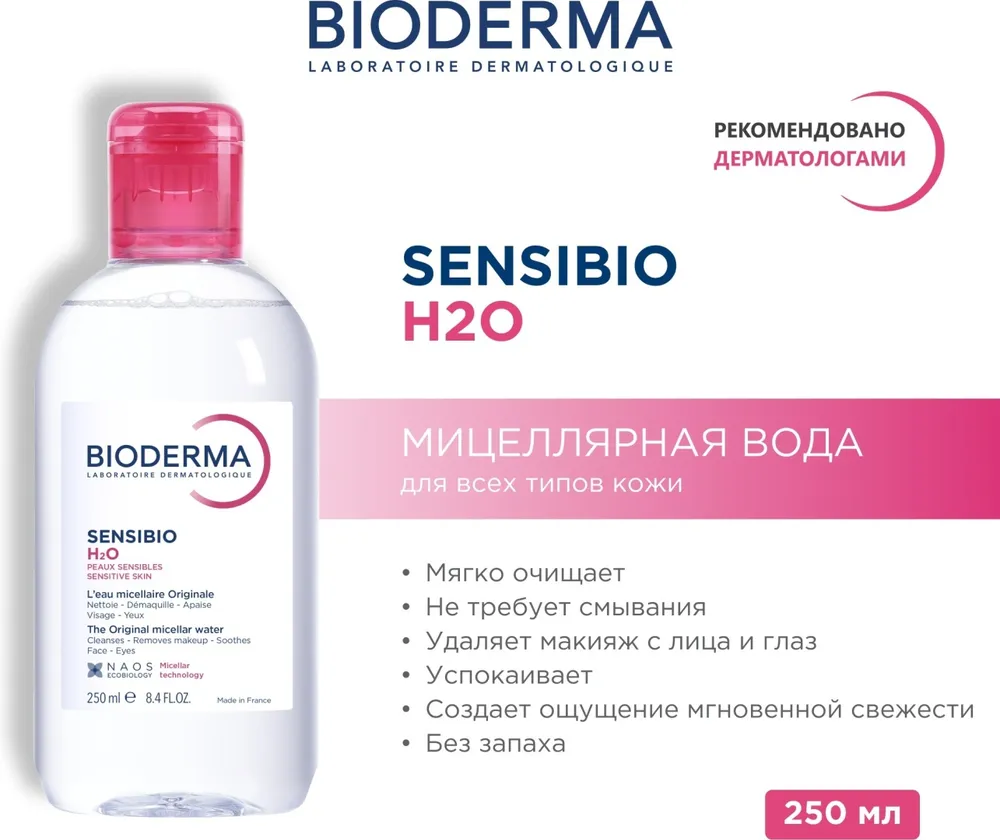
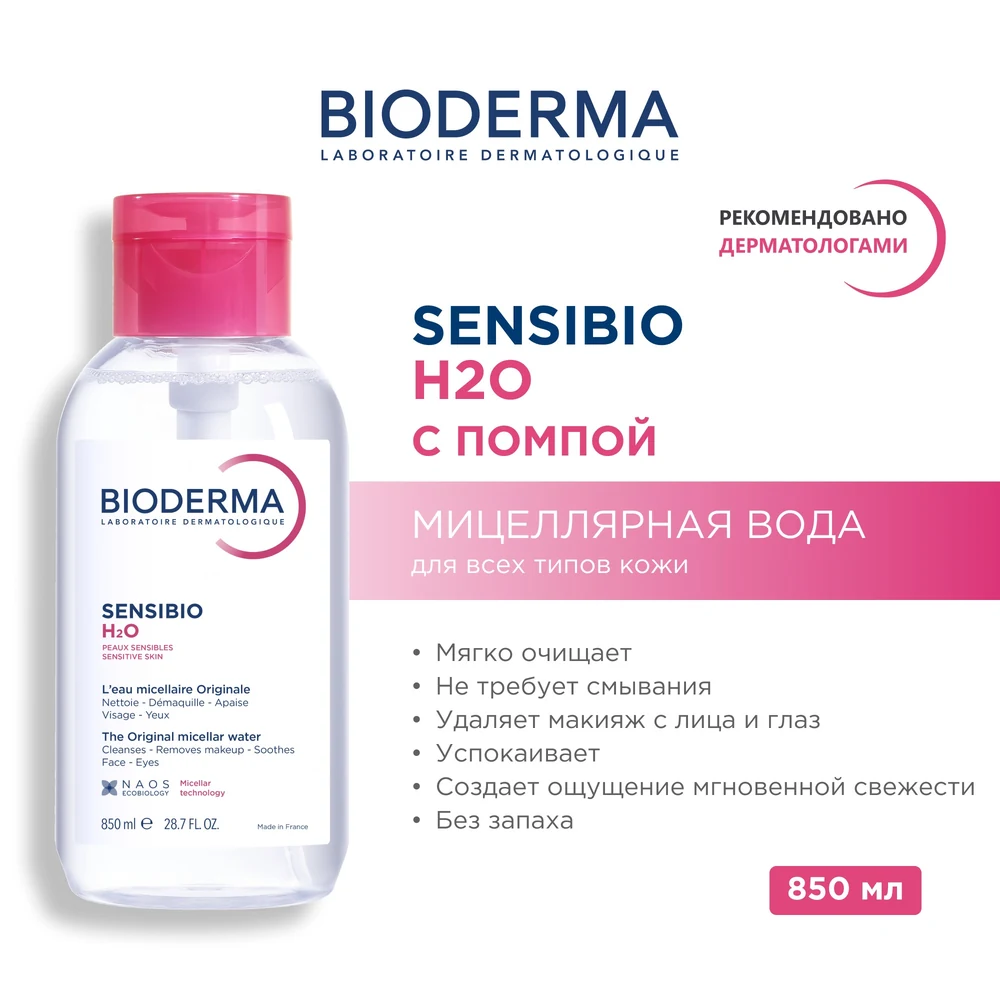
Sensibio H2O gorseli 850 ml (pompali) ile degistirildi

diff --git a/assets/image-versions.js b/assets/image-versions.js
@@ -1,2 +1,2 @@
 /* scripts/generate-seo-feed.js tarafindan uretilir - elle duzenleme */
-window.IMAGE_VERSIONS = {"/products/a-derma-biology-ac-global-card.webp":"55bfe73f","/products/a-derma-biology-ac-hydra-card.webp":"f585afe7","/products/a-derma-biology-ac-perfect-card.webp":"fcf07359","/products/a-derma-dermalibour-cica-creme-card.webp":"5ad807fb","/products/a-derma-epitheliale-ah-ultra-card.webp":"64876be0","/products/a-derma-exomega-allergo-baume-card.webp":"90555ca7","/products/a-derma-exomega-control-baume-card.webp":"81b2469d","/products/a-derma-exomega-control-creme-card.webp":"2de73e95","/products/abcderm-babysquam.webp":"c1ded320","/products/abcderm-change-intensif-v2.webp":"057112b1","/products/abcderm-foaming-cleanser-v2.webp":"f39b1f9b","/products/anaphase-serum-card.webp":"534c72bd","/products/anaphase-shampoo.webp":"2915d842","/products/anthelios-uvmune-fluide-card.webp":"9f9e3ce9","/products/antirougeurs-fort-card.webp":"72e94cb7","/products/antirougeurs-jour-card.webp":"1b9ba12f","/products/aqualia-thermal-leger-card.webp":"218fbc38","/products/atoderm-2in1-body-oil-v2.webp":"5a48bb20","/products/atoderm-creme-ultra-200ml.webp":"2cc282da","/products/atoderm-creme-ultra-v2.webp":"dfbe830b","/products/atoderm-gel-moussant.webp":"0e4a625e","/products/atoderm-hand-nail-cream-v2.webp":"2f3f3ca8","/products/atoderm-huile-de-douche.webp":"761f4ba1","/products/atoderm-intensive-baume-200ml.webp":"92ae907d","/products/atoderm-intensive-baume-v2.webp":"6da0342c","/products/atoderm-intensive-eye-v2.webp":"c676f202","/products/atoderm-intensive-gel-cream-v2.webp":"d3c646ad","/products/atoderm-lip-balm-v2.webp":"fb4c82c8","/products/atoderm-nutrition-cream-v2.webp":"7604f430","/products/atoderm-pp-baume.webp":"57be6f56","/products/atoderm-shower-gel-v2.webp":"cbaf20b5","/products/atoderm-stick-levres-v2.webp":"86db31e3","/products/bariederm-cica-creme-card.webp":"c515336c","/products/bariederm-cica-gel-card.webp":"0a1677e3","/products/capital-soleil-lait-card.webp":"044db4b8","/products/capital-soleil-uv-age-card.webp":"ffe70961","/products/caudalie-eau-de-beaute-card.webp":"ef9e4a8e","/products/caudalie-premier-cru-eye-card.webp":"c5408109","/products/caudalie-resveratrol-lift-eye-card.webp":"63bd00c8","/products/caudalie-resveratrol-lift-night-card.webp":"e98e4afe","/products/caudalie-vinoclean-micellar-card.webp":"fa24c874","/products/caudalie-vinohydra-intense-cream-card.webp":"b2fbabba","/products/caudalie-vinohydra-serum-card.webp":"2ecbbfa9","/products/caudalie-vinoperfect-glycolic-mask-card.webp":"50311fae","/products/caudalie-vinoperfect-niacinamide-cream-card.webp":"c74a3964","/products/caudalie-vinopure-serum-card.webp":"64209e0d","/products/caudalie-vinotherapist-hand-cream-card.webp":"42230d87","/products/cicabio-arnica-plus-v2.webp":"bcdf9826","/products/cicabio-cleansing-balm-v2.webp":"183cf77e","/products/cicabio-creme-plus-v2.webp":"88c945b5","/products/cicabio-hand-cream-v2.webp":"71819ce1","/products/cicabio-lip-repair-v2.webp":"3b4c61d4","/products/cicabio-lotion-spray.webp":"e73d9410","/products/cicalfate-plus-creme-card.webp":"15fc1f2f","/products/cicalfate-plus-lotion-card.webp":"e72025c3","/products/cicaplast-baume-b5-card.webp":"e86bdc2d","/products/cicaplast-gel-b5-card.webp":"599f6434","/products/cleanance-comedomed-card.webp":"5a10b990","/products/cleanance-gel-moussant-card.webp":"ad28eaa8","/products/diopti-anti-fatigue-card.webp":"52b87467","/products/ds-laboratoire-creme-card.webp":"44f06522","/products/ds-laboratoire-gel-card.webp":"2a92bb81","/products/eau-cellulaire-brume-200ml.webp":"a349ad7e","/products/eau-thermale-brume-card.webp":"30ad361e","/products/effaclar-duo-card.webp":"a4b3ef86","/products/effaclar-gel-moussant-card.webp":"a904eac0","/products/esthe-white-brightening-cleansing-foam-150ml.webp":"0eca571a","/products/esthederm-age-proteom-serum-30ml.webp":"8b9a914b","/products/esthederm-bronz-impulse-150ml.webp":"e8e42585","/products/esthederm-excellage-cream-50ml.webp":"35c66c5f","/products/esthederm-excellage-eye-care-15ml.webp":"a6f6f5f8","/products/esthederm-intensive-aha-peel-serum-30ml.webp":"0668f093","/products/esthederm-intensive-hyaluronic-cream-50ml.webp":"86b9fe62","/products/esthederm-intensive-hyaluronic-eye-serum-15ml.webp":"bde1aa5a","/products/esthederm-intensive-hyaluronic-mask-50ml.webp":"c3c5879b","/products/esthederm-intensive-hyaluronic-serum-30ml.webp":"17fb4dfb","/products/esthederm-intensive-nad-cream-50ml.webp":"877fbd70","/products/esthederm-intensive-nad-serum-30ml.webp":"1d646809","/products/esthederm-intensive-pro-collagen-cream-50ml.webp":"88c7e0be","/products/esthederm-intensive-pro-collagen-serum-30ml.webp":"bfe31fad","/products/esthederm-intensive-propolis-ferulic-cream-50ml.webp":"f2f49de1","/products/esthederm-intensive-propolis-kaolin-mask-75ml.webp":"80b21e8e","/products/esthederm-intensive-propolis-salicylic-serum-30ml.webp":"97b3855d","/products/esthederm-intensive-propolis-zinc-serum-lotion-130ml.webp":"7309d9b3","/products/esthederm-intensive-retinol-cream-50ml.webp":"4de37fb2","/products/esthederm-intensive-retinol-oil-serum-15ml.webp":"a18f03a9","/products/esthederm-intensive-spiruline-cream-50ml.webp":"d8f668c5","/products/esthederm-intensive-spiruline-serum-30ml.webp":"0a44c910","/products/esthederm-intensive-vitamine-c-gel-cream-50ml.webp":"8911ae88","/products/esthederm-intensive-vitamine-e2-serum-30ml.webp":"105fa9c0","/products/esthederm-into-repair-50ml.webp":"7e3c76a6","/products/esthederm-lift-repair-cream-50ml.webp":"2b19d3d0","/products/esthederm-lift-repair-eye-contour-15ml.webp":"66ac5bc3","/products/esthederm-photo-reverse-spf50-50ml.webp":"2f973993","/products/filorga-hydra-hyal-cream-card.webp":"524a7fc2","/products/filorga-hydra-hyal-serum-card.webp":"b1a649fc","/products/filorga-meso-mask-card.webp":"13ec8274","/products/filorga-optim-eyes-card.webp":"b1f23235","/products/filorga-skin-prep-micellar-card.webp":"da853b90","/products/filorga-time-filler-5xp-cream-card.webp":"e84b9579","/products/filorga-universal-cream-card.webp":"d8d400fc","/products/huile-prodigieuse-dry-oil-card.webp":"53fe821a","/products/huile-prodigieuse-florale-card.webp":"c60c2f3a","/products/hydrabio-creme.webp":"9036dc12","/products/hydrabio-foaming-gel-v2.webp":"3825d511","/products/hydrabio-gel-creme-v2.webp":"572d86a1","/products/hydrabio-h2o.webp":"058c7ac6","/products/hydrabio-hyalu-plus-serum.webp":"9cee76ff","/products/hydrabio-legere.webp":"bdffc657","/products/hydrabio-riche-cream-v2.webp":"dc90804d","/products/hydrabio-tonique.webp":"a87e530f","/products/hydrance-aqua-gel-card.webp":"125492a2","/products/hydrance-riche-card.webp":"bc2bbd50","/products/hyseac-3-regul-card.webp":"ffab7149","/products/hyseac-gel-moussant-card.webp":"0ba462ce","/products/isispharma-metroruboril-az-card.webp":"7798e4cc","/products/isispharma-neotone-gel-card.webp":"e5099efb","/products/isispharma-ruboril-expert-m-card.webp":"bc20a8a5","/products/isispharma-ruboril-expert-s-card.webp":"456b470b","/products/isispharma-secalia-ato-baume-card.webp":"01894c8e","/products/isispharma-teen-derm-az-card.webp":"b9cbf55e","/products/isispharma-teen-derm-gel-card.webp":"8738706a","/products/isispharma-teen-derm-hydra-card.webp":"1ceb7f9a","/products/isispharma-urelia-10-card.webp":"0a03b7db","/products/isispharma-uveblock-spf50-invisible-card.webp":"750fae86","/products/kelual-ds-shampoo-card.webp":"f76bbb57","/products/lait-creme-concentre-card.webp":"de84b585","/products/liftactiv-collagen-specialist-card.webp":"6a640555","/products/lipikar-baume-apm-card.webp":"c24748cf","/products/lipikar-syndet-ap-card.webp":"b9c0d2d4","/products/mineral89-booster-card.webp":"c7b26a72","/products/mineral89-eyes-card.webp":"da0e1305","/products/mustela-baby-oil-card.webp":"83153314","/products/mustela-diaper-cream-123-card.webp":"36c34656","/products/mustela-gentle-cleansing-gel-card.webp":"0194f27d","/products/mustela-hydra-bebe-lotion-card.webp":"ef49c59a","/products/mustela-liniment-card.webp":"a3db29a3","/products/mustela-nourishing-cleansing-gel-card.webp":"1c2ebea9","/products/mustela-stelatopia-cleansing-gel-card.webp":"eac98f19","/products/mustela-stelatopia-cleansing-oil-card.webp":"9b252454","/products/mustela-stelatopia-cream-card.webp":"47fe7ff6","/products/mustela-stretch-marks-cream-card.webp":"10044323","/products/mustela-stretch-marks-oil-card.webp":"989095f1","/products/mustela-sun-lotion-spf50-card.webp":"b5e40cfe","/products/mustela-sun-stick-spf50-card.webp":"e7d83a70","/products/node-a-shampooing.webp":"e584cafc","/products/node-ds-plus.webp":"22c3d1dd","/products/node-fluid.webp":"41e9fe1b","/products/node-g-shampooing.webp":"481b61f9","/products/node-k-shampooing.webp":"6b983f9c","/products/node-p-shampooing.webp":"d91b95d8","/products/noreva-aquareva-contour-yeux-card.webp":"e4cb0797","/products/noreva-aquareva-riche-card.webp":"0a6ea4c4","/products/noreva-cicadiane-spf50-card.webp":"95be9395","/products/noreva-exfoliac-creme-reparatrice-card.webp":"9622a2a0","/products/noreva-exfoliac-gel-moussant-doux-card.webp":"49ef11f0","/products/noreva-exfoliac-global-x-pro-card.webp":"9bc09e29","/products/noreva-exfoliac-gommage-purifiant-card.webp":"97e013b4","/products/noreva-iklen-plus-serum-card.webp":"2b155be7","/products/noreva-sensidiane-ar-plus-card.webp":"f994f64d","/products/noreva-xerodiane-ap-plus-card.webp":"51d1d7ac","/products/normaderm-gel-moussant-card.webp":"4f7df24b","/products/normaderm-phytosolution-card.webp":"4d8284ed","/products/osmoclean-calming-cleansing-milk-400ml.webp":"75ed7e7d","/products/osmoclean-demaquillant-yeux-levres-125ml.webp":"9158b6cf","/products/osmoclean-gentle-deep-pore-cleanser-75ml.webp":"65a461c4","/products/osmoclean-hydra-replenishing-lotion-400ml.webp":"feddf1ea","/products/osmoclean-lightening-buffing-mask-75ml.webp":"296a584d","/products/osmoclean-micellar-water-200ml.webp":"10e24e85","/products/osmoclean-pure-cleansing-gel-150ml.webp":"bbe6fb81","/products/photoderm-after-sun-gel-cream-v2.webp":"34c86744","/products/photoderm-akn-mat-spf30.webp":"ef353359","/products/photoderm-ar-plus-ultra-fluid-spf50-v2.webp":"fb80c91c","/products/photoderm-cover-touch-v2.webp":"e4fb02af","/products/photoderm-cream-spf50-v2.webp":"2efaf1c7","/products/photoderm-fluide-max-spf100.webp":"7f6dbe98","/products/photoderm-kid-spray.webp":"31a0fe59","/products/photoderm-lait-ultra-spf50-v2.webp":"87b2b1c6","/products/photoderm-m-spf50-light-v2.webp":"69ce6f89","/products/photoderm-mineral-compact-light-spf50.webp":"1e2e1b1b","/products/photoderm-nude-touch-spf50.webp":"b052b062","/products/photoderm-pediatrics-lait-spf50.webp":"64d72c47","/products/photoderm-spot-age-spf50-v2.webp":"e3c46a08","/products/photoderm-spot-spf50-v2.webp":"bebb945e","/products/photoderm-spray-spf50.webp":"2770bf94","/products/photoderm-xdefense-ultra-fluid-spf50-v2.webp":"f22ae523","/products/pigmentbio-c-concentrate-v2.webp":"4cdd1c08","/products/pigmentbio-daily-care-spf50-v2.webp":"1702c323","/products/pigmentbio-foaming-cream-v2.webp":"050ef193","/products/pigmentbio-h2o-v2.webp":"23edd5c2","/products/pigmentbio-night-renewer-v2.webp":"d89559aa","/products/pigmentbio-sensitive-areas-v2.webp":"c0fbf929","/products/premium-creme-voluptueuse-card.webp":"307655de","/products/premium-le-serum-card.webp":"ca7c3d50","/products/radiant-complexion-cream-card.webp":"605f2959","/products/reve-de-miel-face-cream-card.webp":"5cb6c49e","/products/reve-de-miel-lip-balm-card.webp":"f50b5789","/products/sebiaclear-gel-moussant-card.webp":"de93734d","/products/sebiaclear-serum-card.webp":"0c07bdf6","/products/sebium-exfoliating-gel-v2.webp":"6fe6f278","/products/sebium-gel-moussant-100ml.webp":"c8abfcbe","/products/sebium-gel-moussant-200ml.webp":"69a995d3","/products/sebium-gel-moussant-400ml.webp":"672bb67b","/products/sebium-gel-moussant-actif.webp":"ab554c43","/products/sebium-h2o.webp":"1b8f8378","/products/sebium-hydra-cleanser.webp":"44378aa2","/products/sebium-hydra.webp":"9a109a7b","/products/sebium-kerato-plus-body.webp":"986aa088","/products/sebium-kerato-plus.webp":"8c10c3a0","/products/sebium-lotion.webp":"14fef9ab","/products/sebium-mat-control.webp":"58ffe450","/products/sebium-night-peel.webp":"467ac7a9","/products/sebium-pore-refiner.webp":"9634bfe2","/products/sebium-sensitive-v2.webp":"416b116e","/products/sebium-serum.webp":"c6ddd6b0","/products/sensibio-ar-bb-cream-v2.webp":"779b1a23","/products/sensibio-ar-bi-serum-v2.webp":"e4a3166b","/products/sensibio-ar-cc-cream-spf50-v2.webp":"9db14069","/products/sensibio-ar-cream-v2.webp":"baa9c71c","/products/sensibio-ar-micellar-gel-v2.webp":"18ddaeb6","/products/sensibio-ar-sos-spray-v2.webp":"9911867d","/products/sensibio-ar-v2.webp":"baa9c71c","/products/sensibio-defensive-rich-cream-v2.webp":"7c067379","/products/sensibio-defensive-serum-v2.webp":"d3d6bb21","/products/sensibio-defensive.webp":"37f4a3d1","/products/sensibio-ds-cream-v2.webp":"2025086b","/products/sensibio-ds-foaming-gel-v2.webp":"3fad0cc6","/products/sensibio-eye-contour-gel-v2.webp":"308568bd","/products/sensibio-eye.webp":"308568bd","/products/sensibio-forte.webp":"f8f3cc98","/products/sensibio-gel-moussant-100ml.webp":"0b2b8746","/products/sensibio-gel-moussant-200ml.webp":"98ee49b6","/products/sensibio-gel-moussant-500ml.webp":"0628628e","/products/sensibio-h2o-ar.webp":"ee9bc5a8","/products/sensibio-h2o-eye-v2.webp":"6b5affa6","/products/sensibio-h2o.webp":"e62a720d","/products/sensibio-micellar-cleansing-oil-v2.webp":"f9edabd1","/products/sensibio-tonique.webp":"cad62d42","/products/squanorm-dry.webp":"2915d842","/products/squanorm-oily-card.webp":"7289b9ed","/products/tolerance-extreme-emulsion-card.webp":"58948cca","/products/toleriane-caring-wash-card.webp":"e33652b1","/products/toleriane-dermallegro-card.webp":"bc2d98bb","/products/topialyse-baume-card.webp":"ea7102b8","/products/topicrem-baby-gel-card.webp":"6116f127","/products/topicrem-cica-creme-card.webp":"8c4736db","/products/topicrem-da-baume-protect-card.webp":"2d617543","/products/topicrem-da-gel-surgras-card.webp":"a36d6fdf","/products/topicrem-gentle-shampoo-card.webp":"327c1f2a","/products/topicrem-ultra-hydratant-gel-card.webp":"d099df76","/products/topicrem-ultra-hydratant-lait-card.webp":"a1c2e188","/products/topicrem-ur10-creme-card.webp":"c7f65017","/products/xemose-creme-card.webp":"5f240994","/products/xemose-huile-lavante-card.webp":"66407889","/assets/brands/a-derma.svg":"6a4366a3","/assets/brands/avene.png":"5fc0f66a","/assets/brands/bioderma.png":"50c75237","/assets/brands/caudalie.svg":"4e54e4a0","/assets/brands/ducray.png":"14861385","/assets/brands/embryolisse.png":"0da6f321","/assets/brands/filorga.svg":"d6804fd2","/assets/brands/institut-esthederm.svg":"5b921023","/assets/brands/isispharma.svg":"d806335d","/assets/brands/la-roche-posay.svg":"c9dee276","/assets/brands/lierac.svg":"cb67e1dd","/assets/brands/mustela.png":"98bc0ea1","/assets/brands/noreva.svg":"44ec837f","/assets/brands/nuxe.svg":"a9442d87","/assets/brands/svr.png":"ed98003b","/assets/brands/topicrem.svg":"f1b246e7","/assets/brands/uriage.svg":"1cd83122","/assets/brands/vichy.jpg":"af613ca4"};
+window.IMAGE_VERSIONS = {"/products/a-derma-biology-ac-global-card.webp":"55bfe73f","/products/a-derma-biology-ac-hydra-card.webp":"f585afe7","/products/a-derma-biology-ac-perfect-card.webp":"fcf07359","/products/a-derma-dermalibour-cica-creme-card.webp":"5ad807fb","/products/a-derma-epitheliale-ah-ultra-card.webp":"64876be0","/products/a-derma-exomega-allergo-baume-card.webp":"90555ca7","/products/a-derma-exomega-control-baume-card.webp":"81b2469d","/products/a-derma-exomega-control-creme-card.webp":"2de73e95","/products/abcderm-babysquam.webp":"c1ded320","/products/abcderm-change-intensif-v2.webp":"057112b1","/products/abcderm-foaming-cleanser-v2.webp":"f39b1f9b","/products/anaphase-serum-card.webp":"534c72bd","/products/anaphase-shampoo.webp":"2915d842","/products/anthelios-uvmune-fluide-card.webp":"9f9e3ce9","/products/antirougeurs-fort-card.webp":"72e94cb7","/products/antirougeurs-jour-card.webp":"1b9ba12f","/products/aqualia-thermal-leger-card.webp":"218fbc38","/products/atoderm-2in1-body-oil-v2.webp":"5a48bb20","/products/atoderm-creme-ultra-200ml.webp":"2cc282da","/products/atoderm-creme-ultra-v2.webp":"dfbe830b","/products/atoderm-gel-moussant.webp":"0e4a625e","/products/atoderm-hand-nail-cream-v2.webp":"2f3f3ca8","/products/atoderm-huile-de-douche.webp":"761f4ba1","/products/atoderm-intensive-baume-200ml.webp":"92ae907d","/products/atoderm-intensive-baume-v2.webp":"6da0342c","/products/atoderm-intensive-eye-v2.webp":"c676f202","/products/atoderm-intensive-gel-cream-v2.webp":"d3c646ad","/products/atoderm-lip-balm-v2.webp":"fb4c82c8","/products/atoderm-nutrition-cream-v2.webp":"7604f430","/products/atoderm-pp-baume.webp":"57be6f56","/products/atoderm-shower-gel-v2.webp":"cbaf20b5","/products/atoderm-stick-levres-v2.webp":"86db31e3","/products/bariederm-cica-creme-card.webp":"c515336c","/products/bariederm-cica-gel-card.webp":"0a1677e3","/products/capital-soleil-lait-card.webp":"044db4b8","/products/capital-soleil-uv-age-card.webp":"ffe70961","/products/caudalie-eau-de-beaute-card.webp":"ef9e4a8e","/products/caudalie-premier-cru-eye-card.webp":"c5408109","/products/caudalie-resveratrol-lift-eye-card.webp":"63bd00c8","/products/caudalie-resveratrol-lift-night-card.webp":"e98e4afe","/products/caudalie-vinoclean-micellar-card.webp":"fa24c874","/products/caudalie-vinohydra-intense-cream-card.webp":"b2fbabba","/products/caudalie-vinohydra-serum-card.webp":"2ecbbfa9","/products/caudalie-vinoperfect-glycolic-mask-card.webp":"50311fae","/products/caudalie-vinoperfect-niacinamide-cream-card.webp":"c74a3964","/products/caudalie-vinopure-serum-card.webp":"64209e0d","/products/caudalie-vinotherapist-hand-cream-card.webp":"42230d87","/products/cicabio-arnica-plus-v2.webp":"bcdf9826","/products/cicabio-cleansing-balm-v2.webp":"183cf77e","/products/cicabio-creme-plus-v2.webp":"88c945b5","/products/cicabio-hand-cream-v2.webp":"71819ce1","/products/cicabio-lip-repair-v2.webp":"3b4c61d4","/products/cicabio-lotion-spray.webp":"e73d9410","/products/cicalfate-plus-creme-card.webp":"15fc1f2f","/products/cicalfate-plus-lotion-card.webp":"e72025c3","/products/cicaplast-baume-b5-card.webp":"e86bdc2d","/products/cicaplast-gel-b5-card.webp":"599f6434","/products/cleanance-comedomed-card.webp":"5a10b990","/products/cleanance-gel-moussant-card.webp":"ad28eaa8","/products/diopti-anti-fatigue-card.webp":"52b87467","/products/ds-laboratoire-creme-card.webp":"44f06522","/products/ds-laboratoire-gel-card.webp":"2a92bb81","/products/eau-cellulaire-brume-200ml.webp":"a349ad7e","/products/eau-thermale-brume-card.webp":"30ad361e","/products/effaclar-duo-card.webp":"a4b3ef86","/products/effaclar-gel-moussant-card.webp":"a904eac0","/products/esthe-white-brightening-cleansing-foam-150ml.webp":"0eca571a","/products/esthederm-age-proteom-serum-30ml.webp":"8b9a914b","/products/esthederm-bronz-impulse-150ml.webp":"e8e42585","/products/esthederm-excellage-cream-50ml.webp":"35c66c5f","/products/esthederm-excellage-eye-care-15ml.webp":"a6f6f5f8","/products/esthederm-intensive-aha-peel-serum-30ml.webp":"0668f093","/products/esthederm-intensive-hyaluronic-cream-50ml.webp":"86b9fe62","/products/esthederm-intensive-hyaluronic-eye-serum-15ml.webp":"bde1aa5a","/products/esthederm-intensive-hyaluronic-mask-50ml.webp":"c3c5879b","/products/esthederm-intensive-hyaluronic-serum-30ml.webp":"17fb4dfb","/products/esthederm-intensive-nad-cream-50ml.webp":"877fbd70","/products/esthederm-intensive-nad-serum-30ml.webp":"1d646809","/products/esthederm-intensive-pro-collagen-cream-50ml.webp":"88c7e0be","/products/esthederm-intensive-pro-collagen-serum-30ml.webp":"bfe31fad","/products/esthederm-intensive-propolis-ferulic-cream-50ml.webp":"f2f49de1","/products/esthederm-intensive-propolis-kaolin-mask-75ml.webp":"80b21e8e","/products/esthederm-intensive-propolis-salicylic-serum-30ml.webp":"97b3855d","/products/esthederm-intensive-propolis-zinc-serum-lotion-130ml.webp":"7309d9b3","/products/esthederm-intensive-retinol-cream-50ml.webp":"4de37fb2","/products/esthederm-intensive-retinol-oil-serum-15ml.webp":"a18f03a9","/products/esthederm-intensive-spiruline-cream-50ml.webp":"d8f668c5","/products/esthederm-intensive-spiruline-serum-30ml.webp":"0a44c910","/products/esthederm-intensive-vitamine-c-gel-cream-50ml.webp":"8911ae88","/products/esthederm-intensive-vitamine-e2-serum-30ml.webp":"105fa9c0","/products/esthederm-into-repair-50ml.webp":"7e3c76a6","/products/esthederm-lift-repair-cream-50ml.webp":"2b19d3d0","/products/esthederm-lift-repair-eye-contour-15ml.webp":"66ac5bc3","/products/esthederm-photo-reverse-spf50-50ml.webp":"2f973993","/products/filorga-hydra-hyal-cream-card.webp":"524a7fc2","/products/filorga-hydra-hyal-serum-card.webp":"b1a649fc","/products/filorga-meso-mask-card.webp":"13ec8274","/products/filorga-optim-eyes-card.webp":"b1f23235","/products/filorga-skin-prep-micellar-card.webp":"da853b90","/products/filorga-time-filler-5xp-cream-card.webp":"e84b9579","/products/filorga-universal-cream-card.webp":"d8d400fc","/products/huile-prodigieuse-dry-oil-card.webp":"53fe821a","/products/huile-prodigieuse-florale-card.webp":"c60c2f3a","/products/hydrabio-creme.webp":"9036dc12","/products/hydrabio-foaming-gel-v2.webp":"3825d511","/products/hydrabio-gel-creme-v2.webp":"572d86a1","/products/hydrabio-h2o.webp":"058c7ac6","/products/hydrabio-hyalu-plus-serum.webp":"9cee76ff","/products/hydrabio-legere.webp":"bdffc657","/products/hydrabio-riche-cream-v2.webp":"dc90804d","/products/hydrabio-tonique.webp":"a87e530f","/products/hydrance-aqua-gel-card.webp":"125492a2","/products/hydrance-riche-card.webp":"bc2bbd50","/products/hyseac-3-regul-card.webp":"ffab7149","/products/hyseac-gel-moussant-card.webp":"0ba462ce","/products/isispharma-metroruboril-az-card.webp":"7798e4cc","/products/isispharma-neotone-gel-card.webp":"e5099efb","/products/isispharma-ruboril-expert-m-card.webp":"bc20a8a5","/products/isispharma-ruboril-expert-s-card.webp":"456b470b","/products/isispharma-secalia-ato-baume-card.webp":"01894c8e","/products/isispharma-teen-derm-az-card.webp":"b9cbf55e","/products/isispharma-teen-derm-gel-card.webp":"8738706a","/products/isispharma-teen-derm-hydra-card.webp":"1ceb7f9a","/products/isispharma-urelia-10-card.webp":"0a03b7db","/products/isispharma-uveblock-spf50-invisible-card.webp":"750fae86","/products/kelual-ds-shampoo-card.webp":"f76bbb57","/products/lait-creme-concentre-card.webp":"de84b585","/products/liftactiv-collagen-specialist-card.webp":"6a640555","/products/lipikar-baume-apm-card.webp":"c24748cf","/products/lipikar-syndet-ap-card.webp":"b9c0d2d4","/products/mineral89-booster-card.webp":"c7b26a72","/products/mineral89-eyes-card.webp":"da0e1305","/products/mustela-baby-oil-card.webp":"83153314","/products/mustela-diaper-cream-123-card.webp":"36c34656","/products/mustela-gentle-cleansing-gel-card.webp":"0194f27d","/products/mustela-hydra-bebe-lotion-card.webp":"ef49c59a","/products/mustela-liniment-card.webp":"a3db29a3","/products/mustela-nourishing-cleansing-gel-card.webp":"1c2ebea9","/products/mustela-stelatopia-cleansing-gel-card.webp":"eac98f19","/products/mustela-stelatopia-cleansing-oil-card.webp":"9b252454","/products/mustela-stelatopia-cream-card.webp":"47fe7ff6","/products/mustela-stretch-marks-cream-card.webp":"10044323","/products/mustela-stretch-marks-oil-card.webp":"989095f1","/products/mustela-sun-lotion-spf50-card.webp":"b5e40cfe","/products/mustela-sun-stick-spf50-card.webp":"e7d83a70","/products/node-a-shampooing.webp":"e584cafc","/products/node-ds-plus.webp":"22c3d1dd","/products/node-fluid.webp":"41e9fe1b","/products/node-g-shampooing.webp":"481b61f9","/products/node-k-shampooing.webp":"6b983f9c","/products/node-p-shampooing.webp":"d91b95d8","/products/noreva-aquareva-contour-yeux-card.webp":"e4cb0797","/products/noreva-aquareva-riche-card.webp":"0a6ea4c4","/products/noreva-cicadiane-spf50-card.webp":"95be9395","/products/noreva-exfoliac-creme-reparatrice-card.webp":"9622a2a0","/products/noreva-exfoliac-gel-moussant-doux-card.webp":"49ef11f0","/products/noreva-exfoliac-global-x-pro-card.webp":"9bc09e29","/products/noreva-exfoliac-gommage-purifiant-card.webp":"97e013b4","/products/noreva-iklen-plus-serum-card.webp":"2b155be7","/products/noreva-sensidiane-ar-plus-card.webp":"f994f64d","/products/noreva-xerodiane-ap-plus-card.webp":"51d1d7ac","/products/normaderm-gel-moussant-card.webp":"4f7df24b","/products/normaderm-phytosolution-card.webp":"4d8284ed","/products/osmoclean-calming-cleansing-milk-400ml.webp":"75ed7e7d","/products/osmoclean-demaquillant-yeux-levres-125ml.webp":"9158b6cf","/products/osmoclean-gentle-deep-pore-cleanser-75ml.webp":"65a461c4","/products/osmoclean-hydra-replenishing-lotion-400ml.webp":"feddf1ea","/products/osmoclean-lightening-buffing-mask-75ml.webp":"296a584d","/products/osmoclean-micellar-water-200ml.webp":"10e24e85","/products/osmoclean-pure-cleansing-gel-150ml.webp":"bbe6fb81","/products/photoderm-after-sun-gel-cream-v2.webp":"34c86744","/products/photoderm-akn-mat-spf30.webp":"ef353359","/products/photoderm-ar-plus-ultra-fluid-spf50-v2.webp":"fb80c91c","/products/photoderm-cover-touch-v2.webp":"e4fb02af","/products/photoderm-cream-spf50-v2.webp":"2efaf1c7","/products/photoderm-fluide-max-spf100.webp":"7f6dbe98","/products/photoderm-kid-spray.webp":"31a0fe59","/products/photoderm-lait-ultra-spf50-v2.webp":"87b2b1c6","/products/photoderm-m-spf50-light-v2.webp":"69ce6f89","/products/photoderm-mineral-compact-light-spf50.webp":"1e2e1b1b","/products/photoderm-nude-touch-spf50.webp":"b052b062","/products/photoderm-pediatrics-lait-spf50.webp":"64d72c47","/products/photoderm-spot-age-spf50-v2.webp":"e3c46a08","/products/photoderm-spot-spf50-v2.webp":"bebb945e","/products/photoderm-spray-spf50.webp":"2770bf94","/products/photoderm-xdefense-ultra-fluid-spf50-v2.webp":"f22ae523","/products/pigmentbio-c-concentrate-v2.webp":"4cdd1c08","/products/pigmentbio-daily-care-spf50-v2.webp":"1702c323","/products/pigmentbio-foaming-cream-v2.webp":"050ef193","/products/pigmentbio-h2o-v2.webp":"23edd5c2","/products/pigmentbio-night-renewer-v2.webp":"d89559aa","/products/pigmentbio-sensitive-areas-v2.webp":"c0fbf929","/products/premium-creme-voluptueuse-card.webp":"307655de","/products/premium-le-serum-card.webp":"ca7c3d50","/products/radiant-complexion-cream-card.webp":"605f2959","/products/reve-de-miel-face-cream-card.webp":"5cb6c49e","/products/reve-de-miel-lip-balm-card.webp":"f50b5789","/products/sebiaclear-gel-moussant-card.webp":"de93734d","/products/sebiaclear-serum-card.webp":"0c07bdf6","/products/sebium-exfoliating-gel-v2.webp":"6fe6f278","/products/sebium-gel-moussant-100ml.webp":"c8abfcbe","/products/sebium-gel-moussant-200ml.webp":"69a995d3","/products/sebium-gel-moussant-400ml.webp":"672bb67b","/products/sebium-gel-moussant-actif.webp":"ab554c43","/products/sebium-h2o.webp":"1b8f8378","/products/sebium-hydra-cleanser.webp":"44378aa2","/products/sebium-hydra.webp":"9a109a7b","/products/sebium-kerato-plus-body.webp":"986aa088","/products/sebium-kerato-plus.webp":"8c10c3a0","/products/sebium-lotion.webp":"14fef9ab","/products/sebium-mat-control.webp":"58ffe450","/products/sebium-night-peel.webp":"467ac7a9","/products/sebium-pore-refiner.webp":"9634bfe2","/products/sebium-sensitive-v2.webp":"416b116e","/products/sebium-serum.webp":"c6ddd6b0","/products/sensibio-ar-bb-cream-v2.webp":"779b1a23","/products/sensibio-ar-bi-serum-v2.webp":"e4a3166b","/products/sensibio-ar-cc-cream-spf50-v2.webp":"9db14069","/products/sensibio-ar-cream-v2.webp":"baa9c71c","/products/sensibio-ar-micellar-gel-v2.webp":"18ddaeb6","/products/sensibio-ar-sos-spray-v2.webp":"9911867d","/products/sensibio-ar-v2.webp":"baa9c71c","/products/sensibio-defensive-rich-cream-v2.webp":"7c067379","/products/sensibio-defensive-serum-v2.webp":"d3d6bb21","/products/sensibio-defensive.webp":"37f4a3d1","/products/sensibio-ds-cream-v2.webp":"2025086b","/products/sensibio-ds-foaming-gel-v2.webp":"3fad0cc6","/products/sensibio-eye-contour-gel-v2.webp":"308568bd","/products/sensibio-eye.webp":"308568bd","/products/sensibio-forte.webp":"f8f3cc98","/products/sensibio-gel-moussant-100ml.webp":"0b2b8746","/products/sensibio-gel-moussant-200ml.webp":"98ee49b6","/products/sensibio-gel-moussant-500ml.webp":"0628628e","/products/sensibio-h2o-ar.webp":"ee9bc5a8","/products/sensibio-h2o-eye-v2.webp":"6b5affa6","/products/sensibio-h2o.webp":"5645fbd4","/products/sensibio-micellar-cleansing-oil-v2.webp":"f9edabd1","/products/sensibio-tonique.webp":"cad62d42","/products/squanorm-dry.webp":"2915d842","/products/squanorm-oily-card.webp":"7289b9ed","/products/tolerance-extreme-emulsion-card.webp":"58948cca","/products/toleriane-caring-wash-card.webp":"e33652b1","/products/toleriane-dermallegro-card.webp":"bc2d98bb","/products/topialyse-baume-card.webp":"ea7102b8","/products/topicrem-baby-gel-card.webp":"6116f127","/products/topicrem-cica-creme-card.webp":"8c4736db","/products/topicrem-da-baume-protect-card.webp":"2d617543","/products/topicrem-da-gel-surgras-card.webp":"a36d6fdf","/products/topicrem-gentle-shampoo-card.webp":"327c1f2a","/products/topicrem-ultra-hydratant-gel-card.webp":"d099df76","/products/topicrem-ultra-hydratant-lait-card.webp":"a1c2e188","/products/topicrem-ur10-creme-card.webp":"c7f65017","/products/xemose-creme-card.webp":"5f240994","/products/xemose-huile-lavante-card.webp":"66407889","/assets/brands/a-derma.svg":"6a4366a3","/assets/brands/avene.png":"5fc0f66a","/assets/brands/bioderma.png":"50c75237","/assets/brands/caudalie.svg":"4e54e4a0","/assets/brands/ducray.png":"14861385","/assets/brands/embryolisse.png":"0da6f321","/assets/brands/filorga.svg":"d6804fd2","/assets/brands/institut-esthederm.svg":"5b921023","/assets/brands/isispharma.svg":"d806335d","/assets/brands/la-roche-posay.svg":"c9dee276","/assets/brands/lierac.svg":"cb67e1dd","/assets/brands/mustela.png":"98bc0ea1","/assets/brands/noreva.svg":"44ec837f","/assets/brands/nuxe.svg":"a9442d87","/assets/brands/svr.png":"ed98003b","/assets/brands/topicrem.svg":"f1b246e7","/assets/brands/uriage.svg":"1cd83122","/assets/brands/vichy.jpg":"af613ca4"};

diff --git a/index.html b/index.html
@@ -292,7 +292,7 @@
     </div>
 
     <script src="/assets/i18n.js?v=c486a10d23"></script>
-    <script src="/assets/image-versions.js?v=db053b9eab"></script>
+    <script src="/assets/image-versions.js?v=66d333f7e3"></script>
     <script src="/assets/data.js?v=3443dc65c9"></script>
     <script src="/assets/app.js?v=0fe3cee9ce"></script>
   </body>
